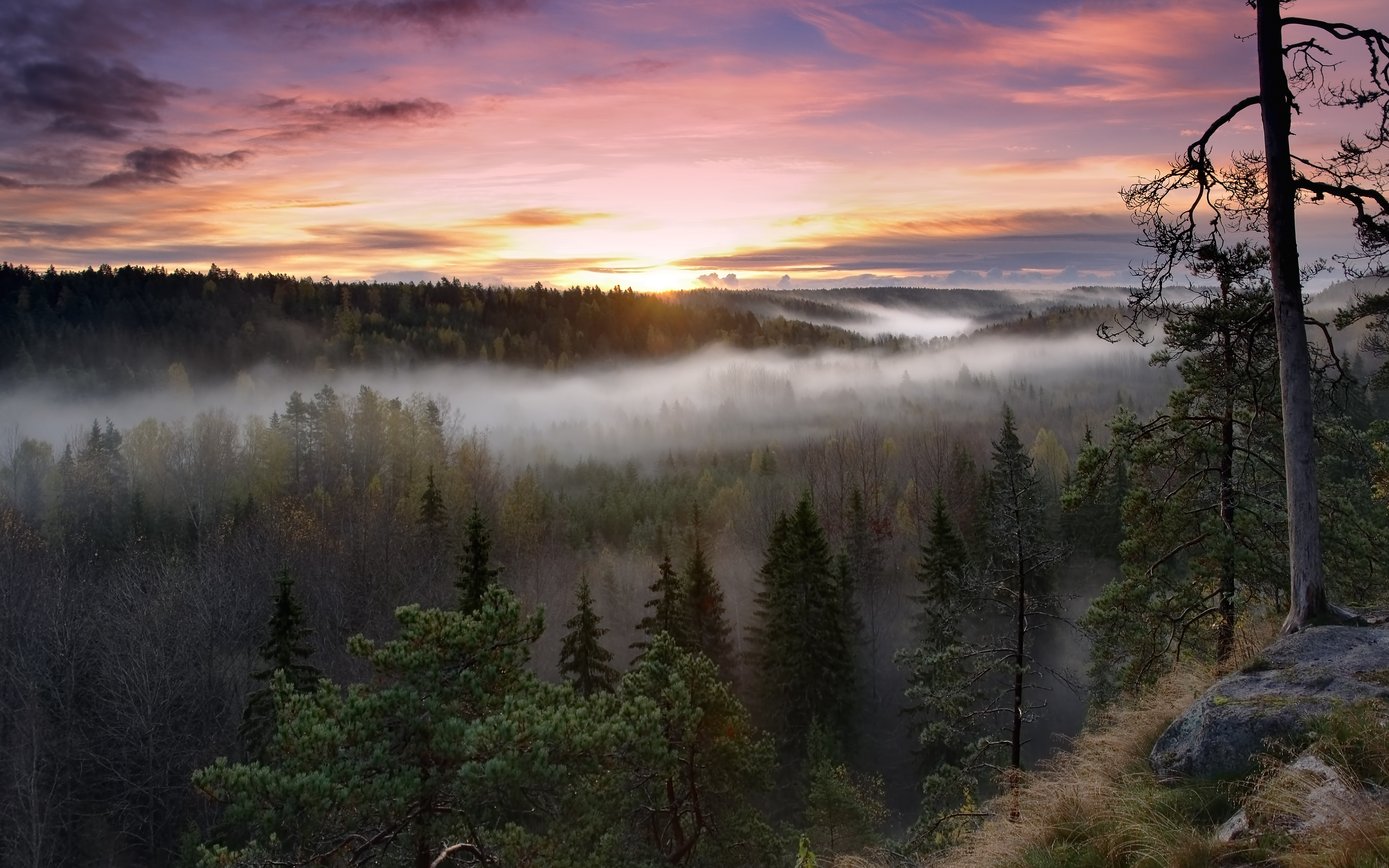
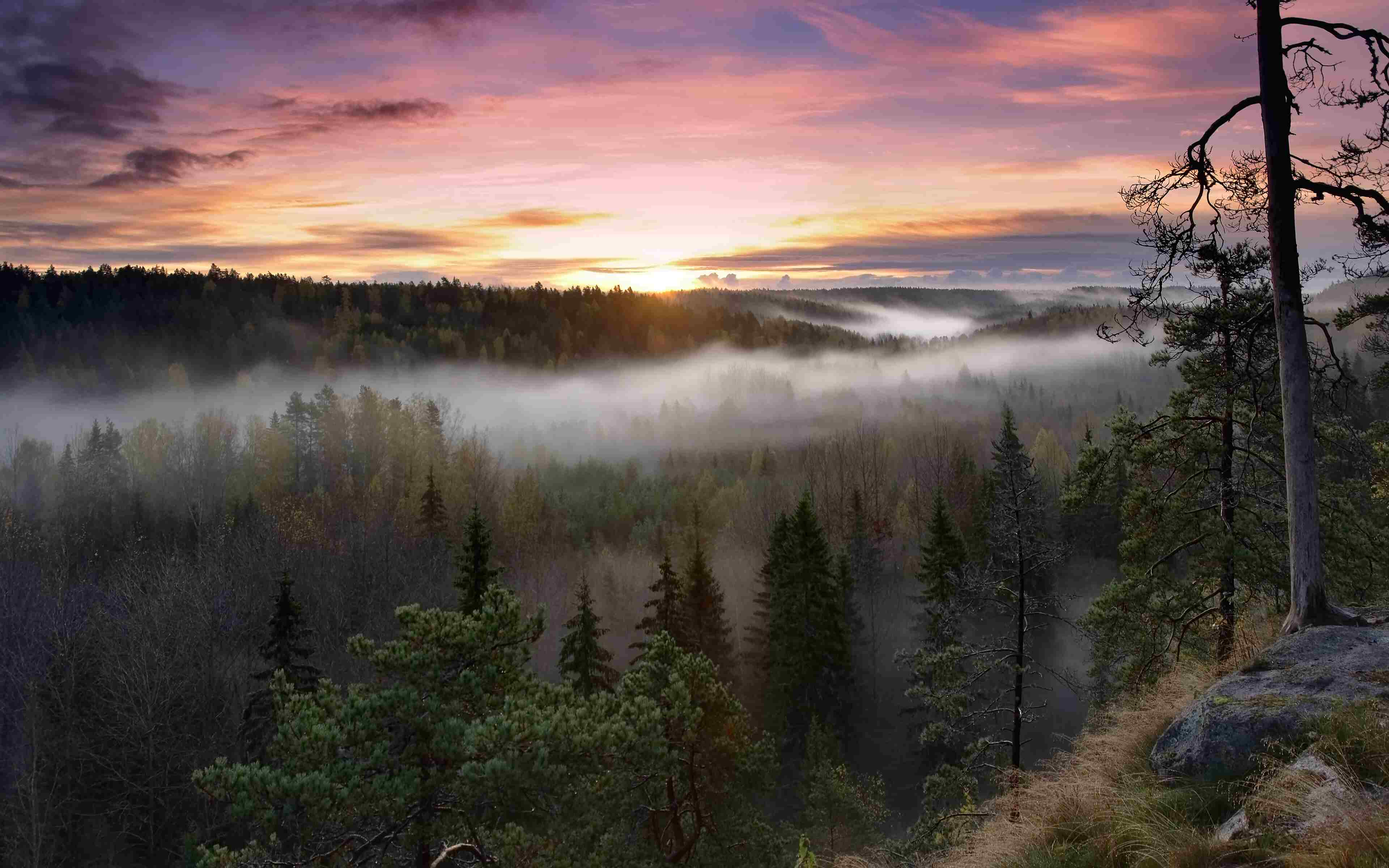
compress images

Changed region(s): [[0.8125, 0.1875, 1.0, 0.2812], [0.8438, 0.2812, 0.875, 0.3125], [0.8125, 0.3125, 0.8438, 0.3438]]

diff --git a/dist/index.js b/dist/index.js
@@ -1,14 +1,32 @@
 "use strict";
 let next = document.getElementById("next");
 let prev = document.getElementById("prev");
-next === null || next === void 0 ? void 0 : next.addEventListener("click", () => {
+let slide = false;
+function nextEffect() {
     var _a;
     const images = document.querySelectorAll(".item");
-    console.log("clicked");
     (_a = document.querySelector(".slider")) === null || _a === void 0 ? void 0 : _a.appendChild(images[0]);
-});
-prev === null || prev === void 0 ? void 0 : prev.addEventListener("click", () => {
+}
+function prevEffect() {
     var _a;
     const images = document.querySelectorAll(".item");
     (_a = document.querySelector(".slider")) === null || _a === void 0 ? void 0 : _a.prepend(images[images.length - 1]);
+}
+next === null || next === void 0 ? void 0 : next.addEventListener("click", () => {
+    nextEffect();
+    slide = false;
+    let timeOut = setTimeout(() => {
+        slide = true;
+    }, 10000);
 });
+prev === null || prev === void 0 ? void 0 : prev.addEventListener("click", () => {
+    prevEffect();
+    slide = false;
+    let timeOut = setTimeout(() => {
+        slide = true;
+    }, 10000);
+});
+let clicker = setInterval(() => {
+    if (slide)
+        nextEffect();
+}, 5000);

diff --git a/js/index.ts b/js/index.ts
@@ -1,14 +1,40 @@
 let next = document.getElementById("next");
 let prev = document.getElementById("prev");
 
-next?.addEventListener("click", () => {
+let slide = false;
+
+function nextEffect() {
   const images = document.querySelectorAll(".item");
 
-  console.log("clicked");
   document.querySelector(".slider")?.appendChild(images[0]);
-});
-prev?.addEventListener("click", () => {
+}
+
+function prevEffect() {
   const images = document.querySelectorAll(".item");
 
   document.querySelector(".slider")?.prepend(images[images.length - 1]);
+}
+
+next?.addEventListener("click", () => {
+  nextEffect();
+
+  slide = false;
+
+  let timeOut = setTimeout(() => {
+    slide = true;
+  }, 10000);
 });
+
+prev?.addEventListener("click", () => {
+  prevEffect();
+
+  slide = false;
+
+  let timeOut = setTimeout(() => {
+    slide = true;
+  }, 10000);
+});
+
+let clicker = setInterval(() => {
+  if (slide) nextEffect();
+}, 5000);

diff --git a/css/sass/master.scss b/css/sass/master.scss
@@ -46,7 +46,6 @@ body {
         width: 100%;
         height: 100%;
         border-radius: 0;
-
         left: 0;
         top: 0;
 
